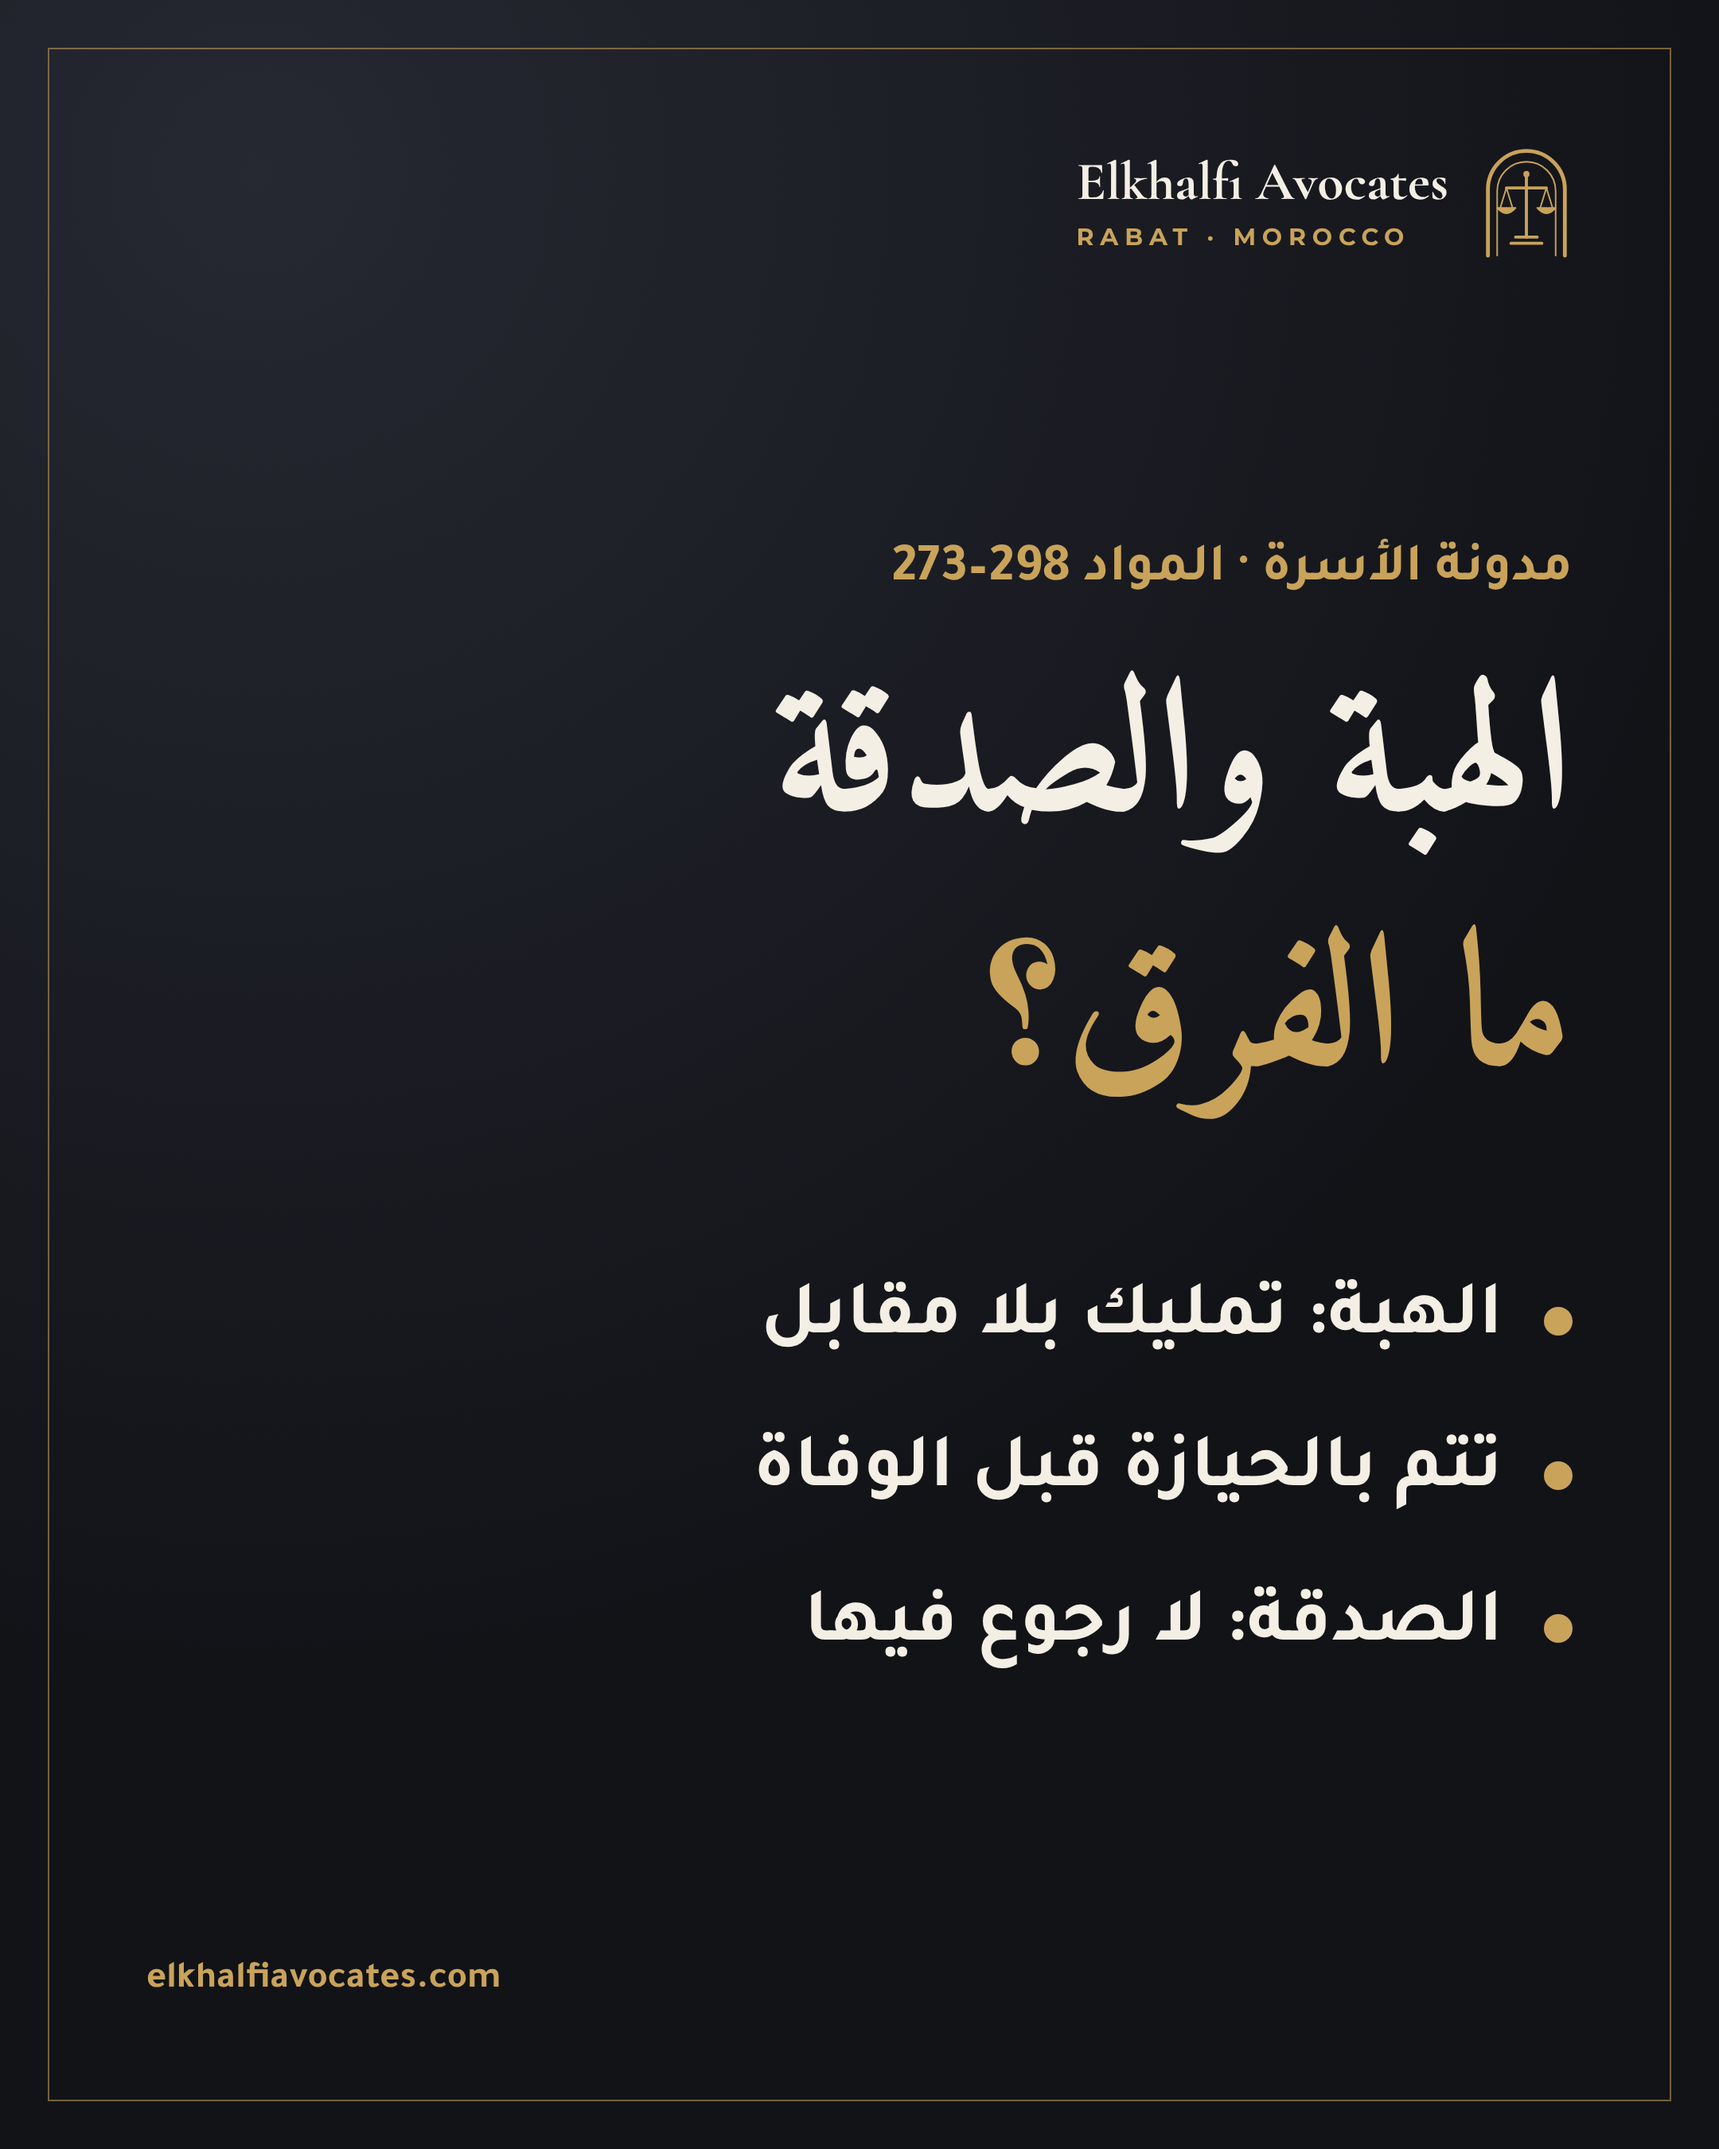
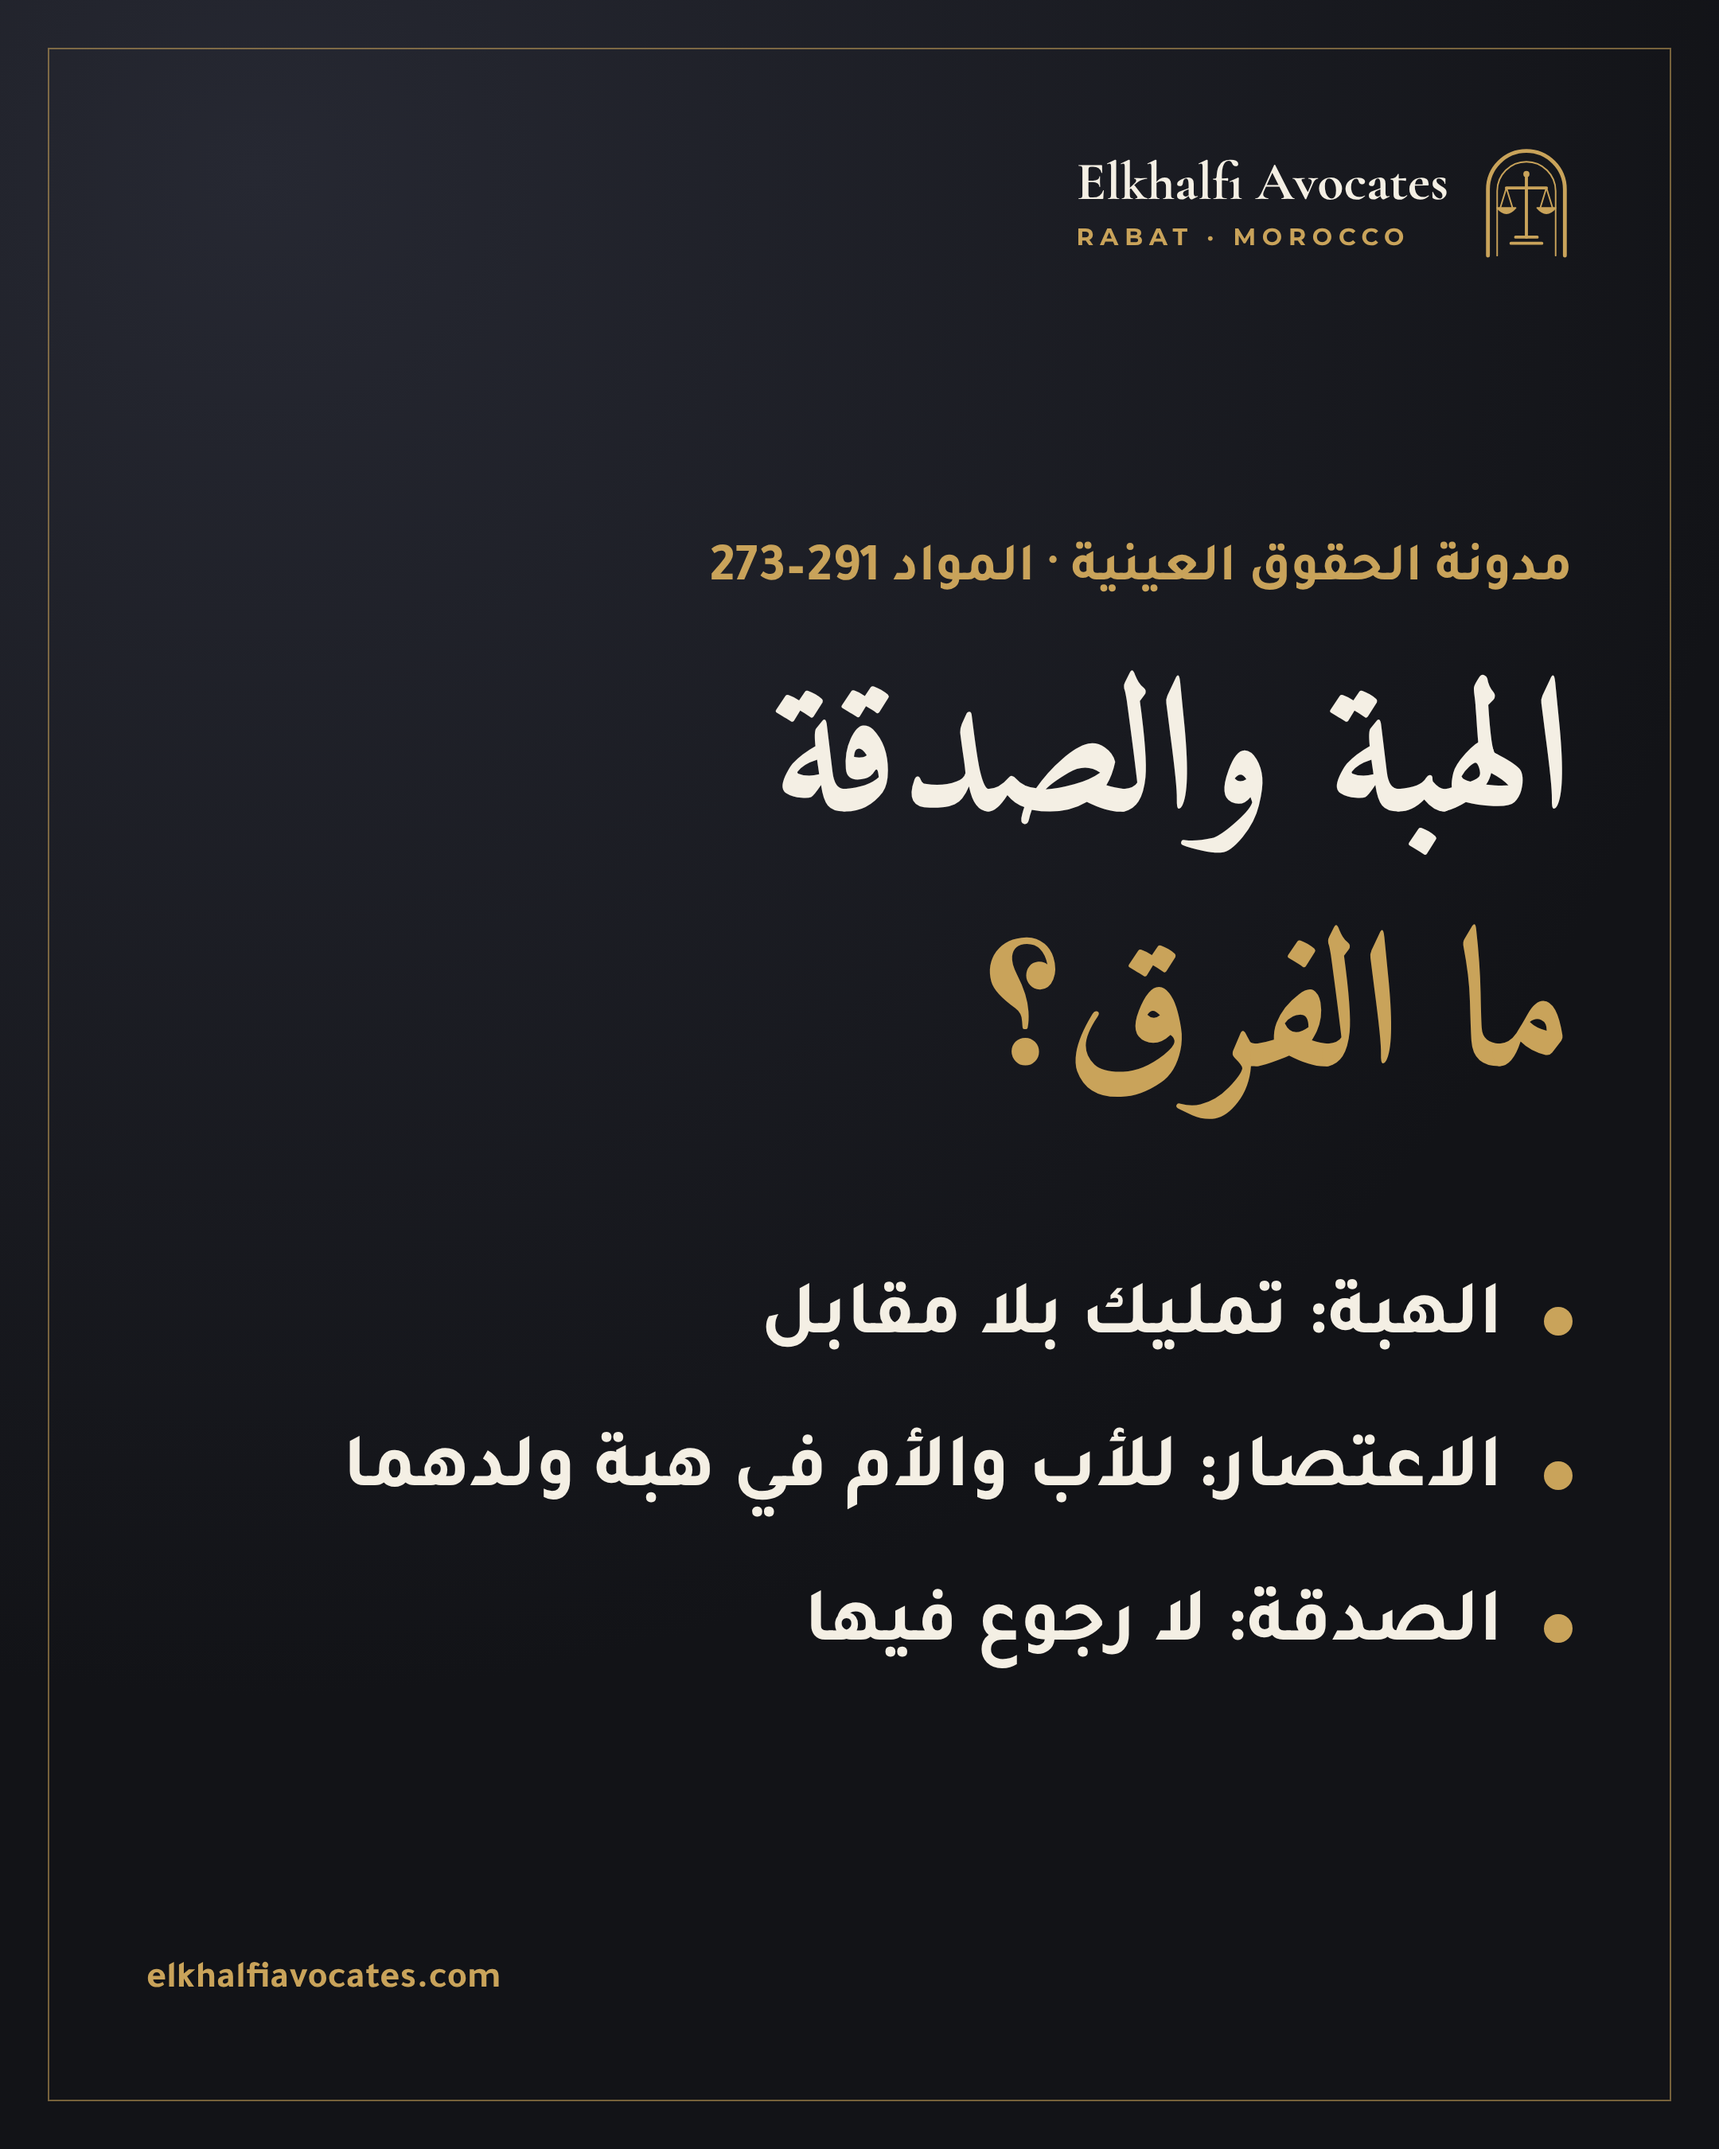
Hiba post: correct source (Code des droits réels 39.08), add i'tisar
Claude-Session: https://claude.ai/code/session_018nHFNjozvWNHBevZYhnMVm

Changed region(s): [[0.4343, 0.6533, 0.8685, 0.7156], [0.4032, 0.2489, 0.8065, 0.28], [0.2171, 0.6533, 0.4032, 0.7156]]

diff --git a/elkhalfi-law/social/captions-short.js b/elkhalfi-law/social/captions-short.js
@@ -55,9 +55,9 @@ ${BIO_AR}
   { id: "AR 9", date: "2026-11-22", today: true, img: "dark-rehab-ar.png", dir: "rtl", text: `⚖ رد الاعتبار بقوة القانون: بعد 6 أشهر للغرامة، سنتين للحبس 6 أشهر أو أقل، و4 سنوات للحبس حتى سنتين (المادة 688 من قانون المسطرة الجنائية).
 ${BIO_AR}
 #رد_الاعتبار #المسطرة_الجنائية #محامية #ElkhalfiAvocates` },
-  { id: "AR 10", img: "dark-hiba-ar.png", dir: "rtl", text: `🎁 الهبة تمليك بلا مقابل وتتم بالحيازة، والصدقة لا رجوع فيها (مدونة الأسرة، المواد 273 إلى 298).
+  { id: "AR 10", img: "dark-hiba-ar.png", dir: "rtl", text: `🎁 الهبة تمليك بلا مقابل، ويجوز للأب والأم الاعتصار في هبة ولدهما بشروط (المادتان 283 و285)، أما الصدقة فلا رجوع فيها (مدونة الحقوق العينية).
 ${BIO_AR}
-#الهبة #الصدقة #مدونة_الأسرة #ElkhalfiAvocates` },
+#الهبة #الصدقة #الاعتصار #ElkhalfiAvocates` },
   { id: "FR 1", img: "dark-whatsapp-fr.png", text: `📱 WhatsApp, une preuve en justice ? Oui : gardez vos messages et faites-les constater.
 ${BIO_FR}
 #avocate #Rabat #WhatsApp #ElkhalfiAvocates` },

diff --git a/elkhalfi-law/social/make-post-dark.js b/elkhalfi-law/social/make-post-dark.js
@@ -79,8 +79,8 @@ const POSTS = {
     points: ["Chaque copropriétaire doit payer", "Le syndic peut agir en justice", "Gardez vos reçus"] },
   "rehab-ar": { dir: "rtl", k: "المسطرة الجنائية · المادة <bdi dir=\"ltr\">688</bdi>", title: "رد الاعتبار<br><span>بعد العقوبة</span>",
     points: ["غرامة: بعد 6 أشهر", "حبس 6 أشهر أو أقل: بعد سنتين", "حبس حتى سنتين: بعد 4 سنوات"] },
-  "hiba-ar": { dir: "rtl", k: "مدونة الأسرة · المواد <bdi dir=\"ltr\">273–298</bdi>", title: "الهبة والصدقة<br><span>ما الفرق؟</span>",
-    points: ["الهبة: تمليك بلا مقابل", "تتم بالحيازة قبل الوفاة", "الصدقة: لا رجوع فيها"] },
+  "hiba-ar": { dir: "rtl", k: "مدونة الحقوق العينية · المواد <bdi dir=\"ltr\">273–291</bdi>", title: "الهبة والصدقة<br><span>ما الفرق؟</span>",
+    points: ["الهبة: تمليك بلا مقابل", "الاعتصار: للأب والأم في هبة ولدهما", "الصدقة: لا رجوع فيها"] },
 };
 (async () => {
   const b = await chromium.launch();
